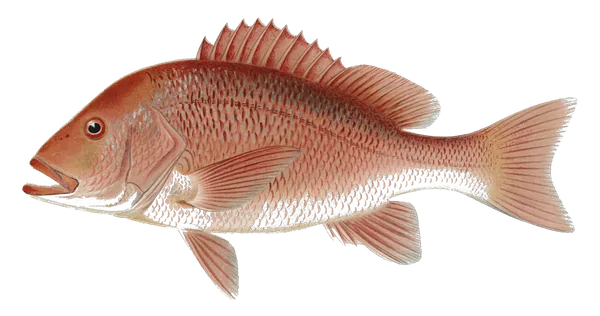
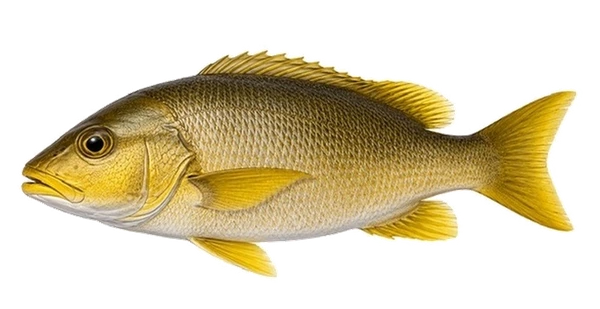
Refresh yellow snapper & barred pargo illustrations
New art (luminance-cutout pipeline, transparent bg, intact fins, 600px webp)
for two existing species:
- yellow-snapper (Lutjanus argentiventris; 'Yellowmouth Pargo' / Pargo Amarillo)
- barred-pargo (Hoplopagrus guentherii)

Both already in the ILLUS map and catch-data; bump illus assets to v=22 and
site.js to v=45 so the refreshed plates load. Verified rendering at 600px.

diff --git a/site/site.js b/site/site.js
@@ -398,8 +398,8 @@
    'orangemouth-corvina','shortfin-corvina',
    'yellowfin-croaker','black-croaker','spotfin-croaker',
    'california-corbina','totoaba','huachinango'
-  ].forEach(function (k) { ILLUS[k] = '/site/img/illus/' + k + '.webp?v=21'; });
-  ILLUS['pez-fuerte'] = '/site/img/illus/pez-fuerte.webp?v=21'; // almaco jack, same fish as amberjack plate
+  ].forEach(function (k) { ILLUS[k] = '/site/img/illus/' + k + '.webp?v=22'; });
+  ILLUS['pez-fuerte'] = '/site/img/illus/pez-fuerte.webp?v=22'; // almaco jack, same fish as amberjack plate
 
   /* ---- premium species explorer (driven by window.CATCH) ---- */
   function species() {

diff --git a/site/index.html b/site/index.html
@@ -463,6 +463,6 @@
   <script src="/site/departures.js?v=1"></script>
   <script src="/site/catch-data.js?v=11"></script>
   <script src="/site/hero-video.js?v=2"></script>
-  <script src="/site/site.js?v=44"></script>
+  <script src="/site/site.js?v=45"></script>
 </body>
 </html>